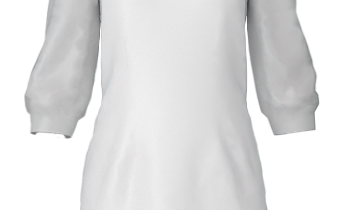
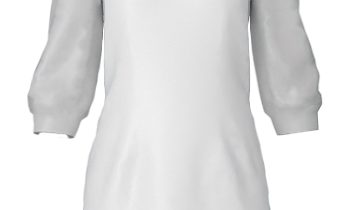
Фикс Сашиного платья. Ахуенно новое главное меню

diff --git a/style.css b/style.css
@@ -7,6 +7,7 @@
 @import url("./blocks/dresses/dresses.css");
 @import url("./blocks/dresses/dresses_close.css");
 @import url("./blocks/dresses/dress.css");
+@import url("./blocks/dresses/livitation.css");
 @import url("./blocks/dresses/Lada.css");
 @import url("./blocks/dresses/Sonya.css");
 @import url("./blocks/dresses/Sasha.css");

diff --git a/blocks/dresses/Sasha.css b/blocks/dresses/Sasha.css
@@ -1,5 +1,9 @@
 .Sasha{
-    flex-wrap: wrap;
-    background-image: url("../../image/Sasha_legs-0.png");
-    margin-top: 200px;
+    width: 150px;
+    height: 350px;
+    right: 75px;
+    top: 80px;
+    /* background-color: rgba(100, 100, 100, .5); */
+
+    z-index: 2;
 }

diff --git a/index.html b/index.html
@@ -16,6 +16,7 @@
     </header>
     <main>
         <section class="dresses">
+            <img src="./image/Platiya.gif" class="livitation">
             <article class="dress Sonya">
                 <a id="open_Sonya" class="open-model"></a>
             </article>

diff --git a/blocks/dresses/Lada.css b/blocks/dresses/Lada.css
@@ -1,4 +1,6 @@
 .Lada{
-    margin-top: 150px;
-    background-image: url("../../image/Lada.gif");
+    width: 150px;
+    height: 300px;
+    right: 0;
+    /* background-color: purple; */
 }

diff --git a/blocks/dresses/Sonya.css b/blocks/dresses/Sonya.css
@@ -1,3 +1,6 @@
 .Sonya{
-    background-image: url("../../image/dress.gif");
+    width: 150px;
+    height: 300px;
+    top: -25px;
+    /* background-color: aqua; */
 }

diff --git a/blocks/dresses/dress.css b/blocks/dresses/dress.css
@@ -6,6 +6,8 @@
     padding: 0; 
     
     background-size: cover;
+    position: absolute;
 
     display: flex;
+    z-index: 1;
 }

diff --git a/blocks/dresses/dresses.css b/blocks/dresses/dresses.css
@@ -1,5 +1,6 @@
 .dresses{
     max-width: 310px;
+    max-height: 100%;
     flex-shrink: 0;
 
     margin: 0 auto;

diff --git a/blocks/dresses/livitation.css b/blocks/dresses/livitation.css
@@ -1,0 +1,4 @@
+.livitation{
+    max-width: 310px;
+    display: flex;
+}
